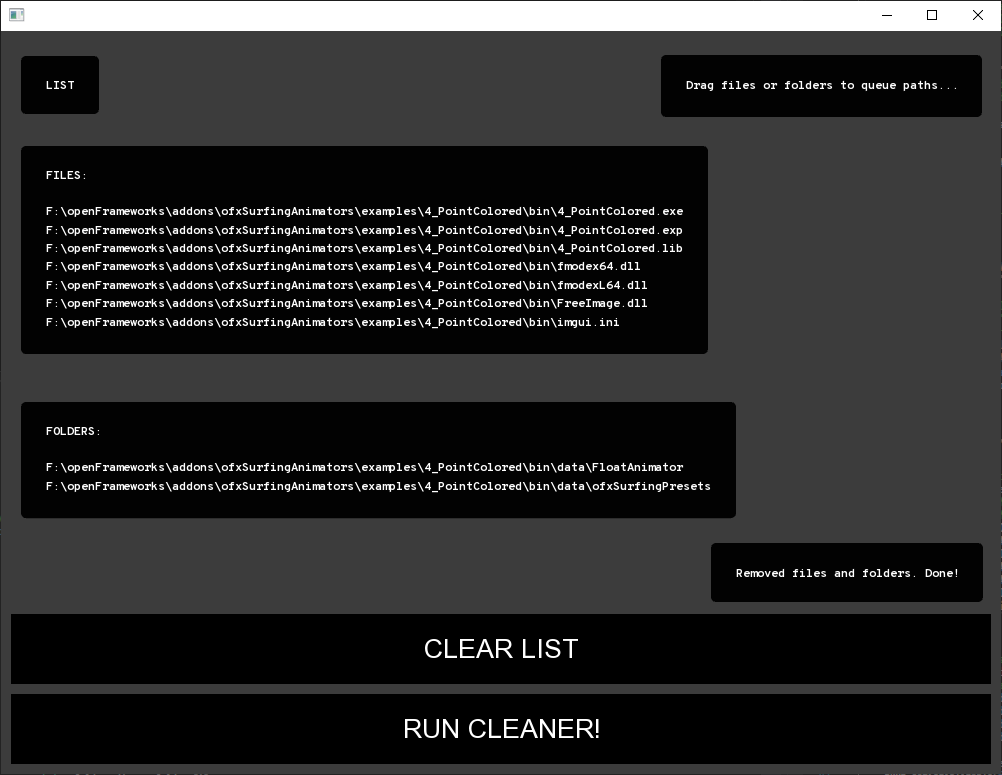
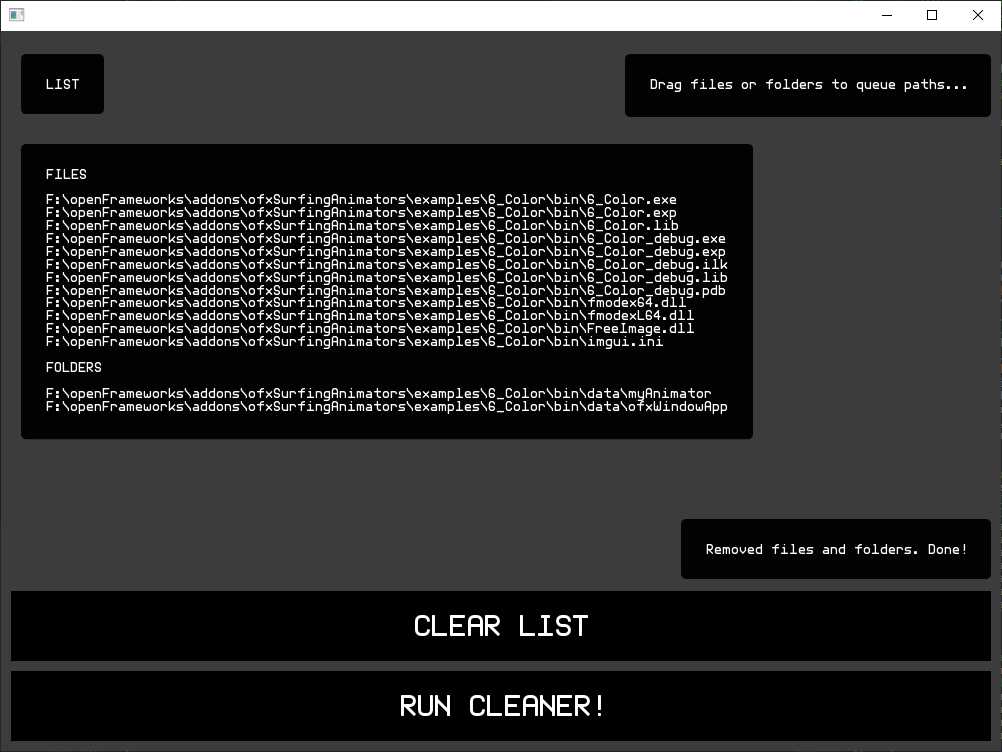
+

diff --git a/src/ofxSurfingDataRemover.cpp b/src/ofxSurfingDataRemover.cpp
@@ -113,9 +113,13 @@ void ofxSurfingDataRemover::setup()
 	// gui
 
 	// theme
+	
 	string _path = "assets/fonts/";
-	_path += "overpass-mono-bold.otf";
-	float _size = 7;
+	_path += "telegrama_render.otf";
+	float _size = 6;
+	//_path += "overpass-mono-bold.otf";
+	//float _size = 7;
+
 	ofFile file(_path);
 	if (file.exists())
 	{
@@ -155,7 +159,8 @@ void ofxSurfingDataRemover::setup()
 	//--
 
 	// button
-	font.loadFont(OF_TTF_SANS, 20, true, true, true);
+	font.loadFont(_path, 20, true, true, true);
+	//font.loadFont(OF_TTF_SANS, 20, true, true, true);
 
 	int x, y, w, h, pad;
 	pad = 10;
@@ -672,36 +677,36 @@ void ofxSurfingDataRemover::dragEvent(ofDragInfo info) {
 
 //--------------------------------------------------------------
 void ofxSurfingDataRemover::drawInfo() {
-	int x, y, w, h, pad;
+	int x, y, w, ww, h, pad;
 	x = 20;
 	y = 25;
+	pad = 10;
 
 	string ss = "LIST";
 	ofxSurfingHelpers::drawTextBoxed(fontBox, ss, x, y);
 
 	y += 90;
-	ss = "FILES:" + ofToString((filesList.get() != "") ? "\n\n" : " NONE") + filesList.get();
-
-	//y = ofGetHeight() / 2;
-	ss += "\nFOLDERS:" + ofToString((foldersList.get() != "") ? "\n\n" : " NONE") + foldersList.get();
-	
+	ss = "FILES" + ofToString((filesList.get() != "") ? "\n\n" : " NONE") + filesList.get();
+	ss += "\n";
+	ss += "FOLDERS" + ofToString((foldersList.get() != "") ? "\n\n" : " NONE") + foldersList.get();
 	ofxSurfingHelpers::drawTextBoxed(fontBox, ss, x, y);
 
-	w = 340;
-	x = ofGetWidth() - w;
 	y = 25;
 	ss = "Drag files or folders to queue paths...";
+	ww = ofxSurfingHelpers::getWidthBBtextBoxed(fontBox, ss) + pad;
+	x = ofGetWidth() - ww;
 	ofxSurfingHelpers::drawTextBoxed(fontBox, ss, x, y);
 
-	w = 270;
-	x = ofGetWidth() - w - 20;
-	h = 70;
-	pad = 10;
-	y = ofGetHeight() - 2 * h - 4 * pad - 50;
 	ss = msg;
+	w = 270;
+	ww = ofxSurfingHelpers::getWidthBBtextBoxed(fontBox, ss) + pad;
+	x = ofGetWidth() - ww;
+	h = 70;
+	y = ofGetHeight() - 2 * h - 4 * pad - 50;
+
 	if (ss != "") {
-		//ofDrawBitmapStringHighlight(ss, x, y);
 		ofxSurfingHelpers::drawTextBoxed(fontBox, ss, x, y);
+		//ofDrawBitmapStringHighlight(ss, x, y);
 	}
 }
 
